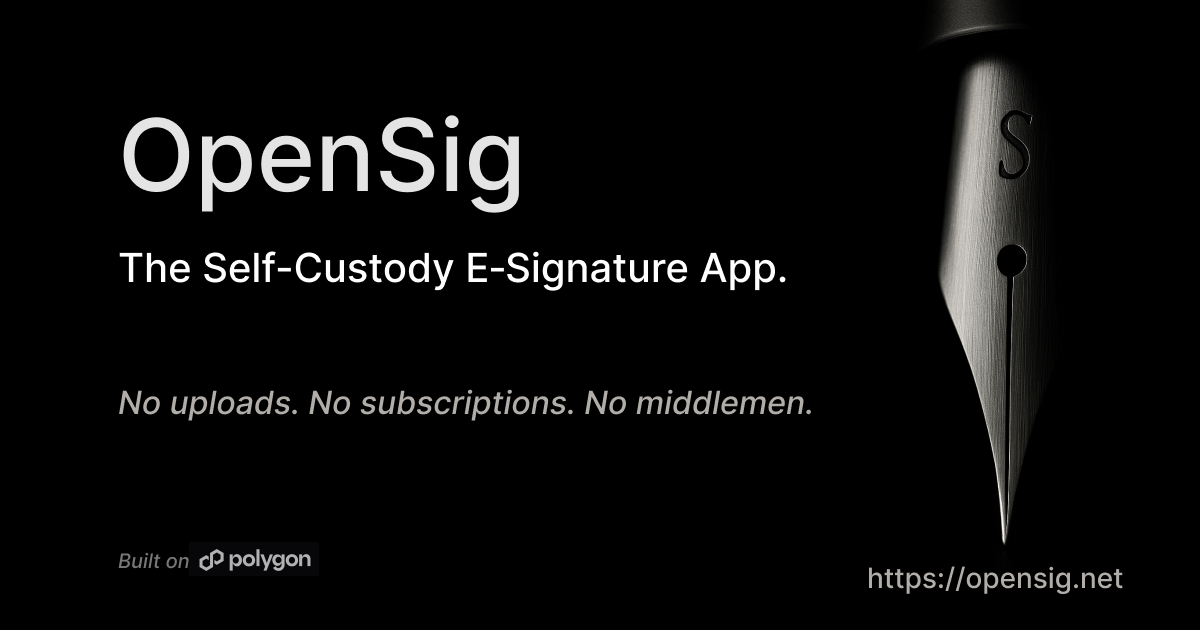
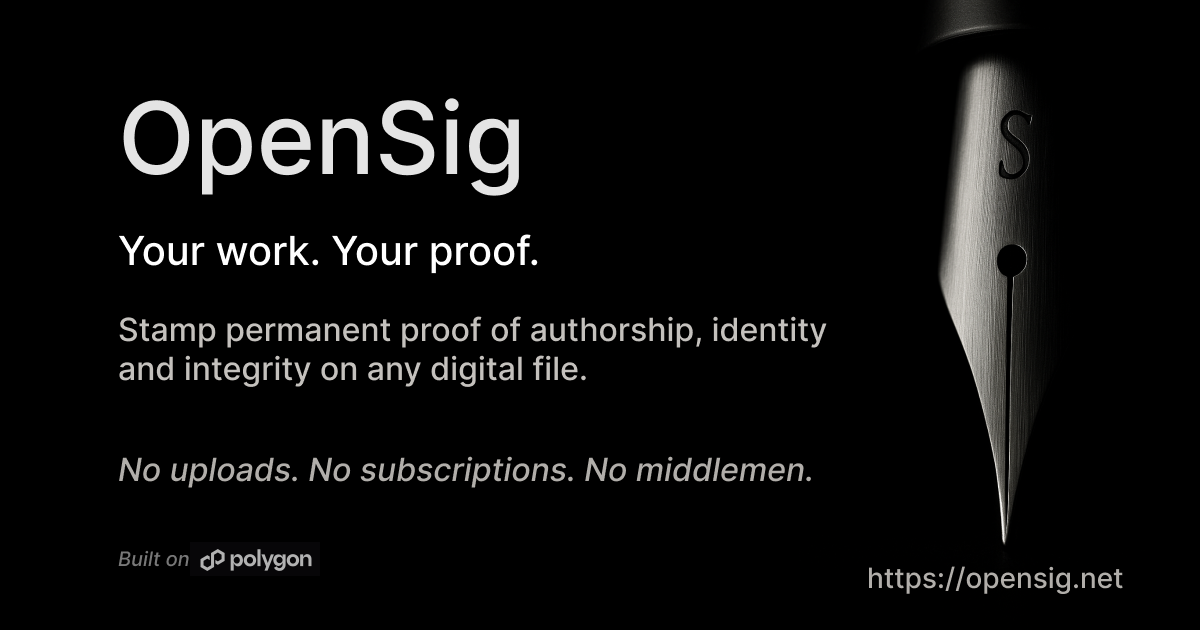
update og metadata and image

diff --git a/public/index.html b/public/index.html
@@ -3,20 +3,21 @@
 <head>
   <title>OpenSig | Digital Signatures & IP Protection Made Simple</title>
   <meta charset="UTF-8">
-  <meta name="description" content="Protect originals and digitally sign anything without subscriptions, uploads or vendor lock-in. OpenSig makes digital signatures and proof of authorship simple for individuals, teams and creators.">
-  <meta name="keywords" content="ip protection, digital signatures, document proof, content timestamp, blockchain receipts, creator workflow, agreement signing">
-  <meta name="author" content="OpenSig">
-  <meta property="og:title" content="OpenSig | Digital Signatures & IP Protection Made Simple">
-  <meta property="og:type" content="website">
-  <meta property="og:description" content="Protect originals and digitally sign anything without subscriptions, uploads or vendor lock-in. OpenSig makes digital signatures and proof of authorship simple for individuals, teams and creators.">
+  <meta name="description" content="Your work, your proof. OpenSig is a simple, modern way to digitally sign and timestamp files of any kind. Protect your IP and sign privately with your personal digital identity. No complex workflows, no file uploads, no middlemen." />
+  <meta name="keywords" content="Decentralised, E-Signatures, Digital Signatures, Blockchain Technology, Digital Document Verification, Encrypted Annotations, Confidentiality & Security, Public Notarisation, Smart Contract Solutions, Cryptography, IP Protection, File Integrity, Provenance, Timestamping, Immutable Records, User Privacy, Trustless Systems, Decentralized Identity, Digital Rights Management" />
+  <meta name="author" content="Bubble Protocol" />
+  <meta property="og:title" content="OpenSig - Your work, your proof." />
+  <meta property="og:type" content="website" />
+  <meta property="og:description" content="A simple, modern way to digitally sign and timestamp files of any kind. Protect your IP and sign privately with your personal digital identity.">
   <meta property="og:image" content="https://opensig.net/assets/opensig-web-image.png">
   <meta property="og:url" content="https://opensig.net">
   <meta property="og:site_name" content="OpenSig">
-  <meta name="twitter:title" content="OpenSig | Digital Signatures & IP Protection Made Simple">
-  <meta name="twitter:description" content="Protect originals and digitally sign anything without subscriptions, uploads or vendor lock-in. OpenSig makes digital signatures and proof of authorship simple for individuals, teams and creators.">
+  <meta name="twitter:title" content="OpenSig - Your work, your proof.">
+  <meta name="twitter:description" content="A simple, modern way to digitally sign and timestamp files of any kind. Protect your IP and sign privately with your personal digital identity.">
   <meta name="twitter:image" content="https://opensig.net/assets/opensig-web-image.png">
   <meta name="twitter:card" content="summary_large_image">
-  <meta name="twitter:image:alt" content="OpenSig product preview">
+  <meta name="twitter:image:alt" content="OpenSig - Your work, your proof.">
+  <meta charset="UTF-8">
   <meta name="viewport" content="width=device-width, initial-scale=1">
   <link rel="icon" href="assets/favicon.ico" type="image/x-icon">
   <link rel="shortcut icon" href="assets/favicon.ico" type="image/x-icon">

diff --git a/public/verify/index.html b/public/verify/index.html
@@ -5,20 +5,20 @@
 <html lang="en">
 <head>
     <title>OpenSig</title>
-    <meta name="description" content="Simply signatures. Privately sign any file without a monthly contract.  A blockchain-based digital signature and notary service for web3 users." />
-    <meta name="keywords" content="digital signature, web3, metamask, e-signature, DocuSign alternative, blockchain notary service, privacy" />
+    <meta name="description" content="Your work, your proof. OpenSig is a simple, modern way to digitally sign and timestamp files of any kind. Protect your IP and sign privately with your personal digital identity. No complex workflows, no file uploads, no middlemen." />
+    <meta name="keywords" content="Decentralised, E-Signatures, Digital Signatures, Blockchain Technology, Digital Document Verification, Encrypted Annotations, Confidentiality & Security, Public Notarisation, Smart Contract Solutions, Cryptography, IP Protection, File Integrity, Provenance, Timestamping, Immutable Records, User Privacy, Trustless Systems, Decentralized Identity, Digital Rights Management" />
     <meta name="author" content="Bubble Protocol" />
-    <meta property="og:title" content="OpenSig - Simply Signatures">
+    <meta property="og:title" content="OpenSig - Your work, your proof." />
     <meta property="og:type" content="website" />
-    <meta property="og:description" content="Digitally sign and verify documents on the blockchain from the privacy of your computer.">
+    <meta property="og:description" content="A simple, modern way to digitally sign and timestamp files of any kind. Protect your IP and sign privately with your personal digital identity.">
     <meta property="og:image" content="https://opensig.net/assets/opensig-web-image.png">
     <meta property="og:url" content="https://opensig.net">
     <meta property="og:site_name" content="OpenSig">
-    <meta name="twitter:title" content="OpenSig - Simply Signatures">
-    <meta name="twitter:description" content="Digitally sign and verify documents on the blockchain from the privacy of your computer.">
+    <meta name="twitter:title" content="OpenSig - Your work, your proof.">
+    <meta name="twitter:description" content="A simple, modern way to digitally sign and timestamp files of any kind. Protect your IP and sign privately with your personal digital identity.">
     <meta name="twitter:image" content="https://opensig.net/assets/opensig-web-image.png">
     <meta name="twitter:card" content="summary_large_image">
-    <meta name="twitter:image:alt" content="OpenSig - Simply Signatures">
+    <meta name="twitter:image:alt" content="OpenSig - Your work, your proof.">
     <meta charset="UTF-8">
     <meta name="viewport" content="width=device-width, initial-scale=1">
     <link rel="shortcut icon" href="../assets/favicon.ico" />
